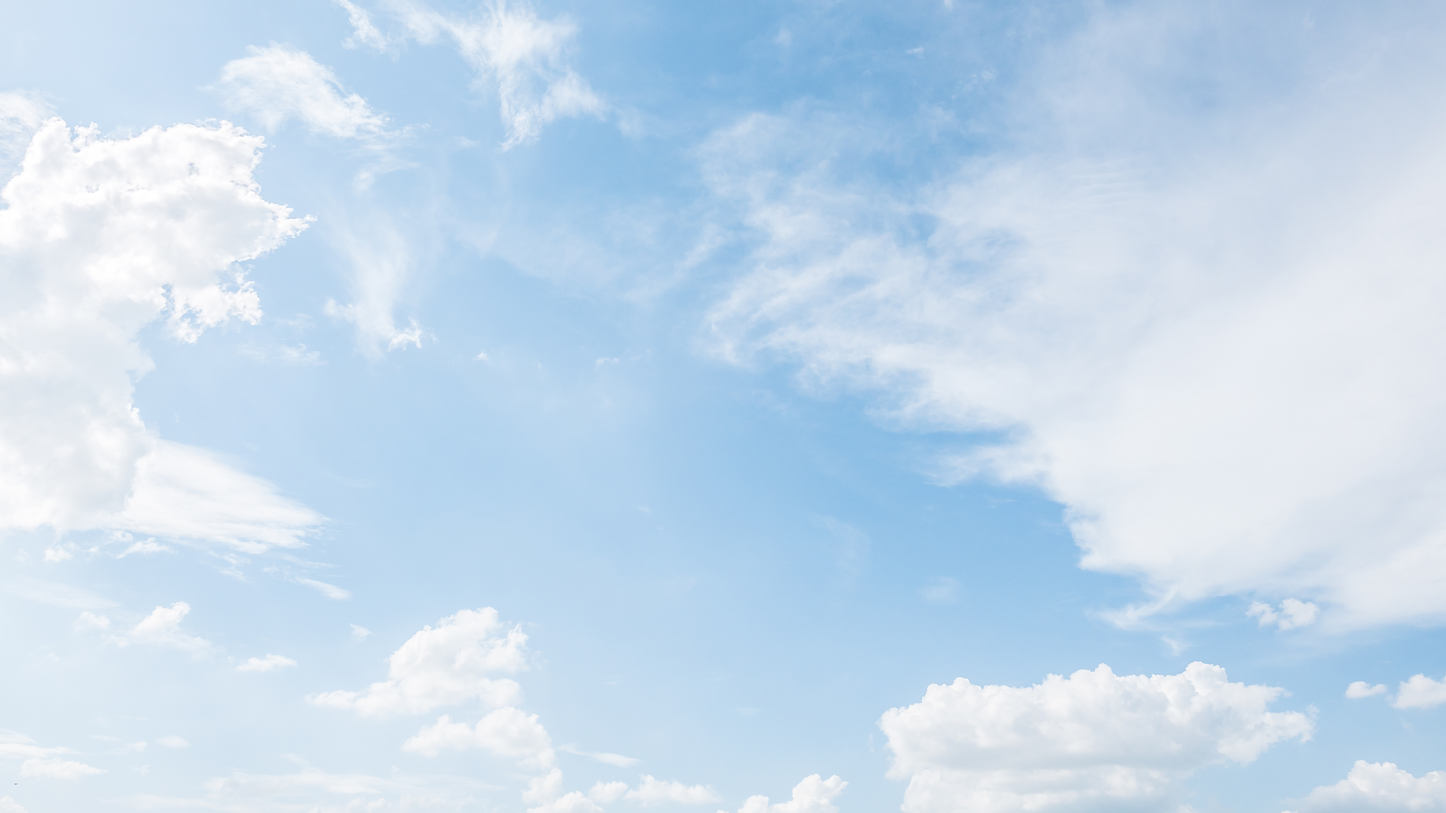
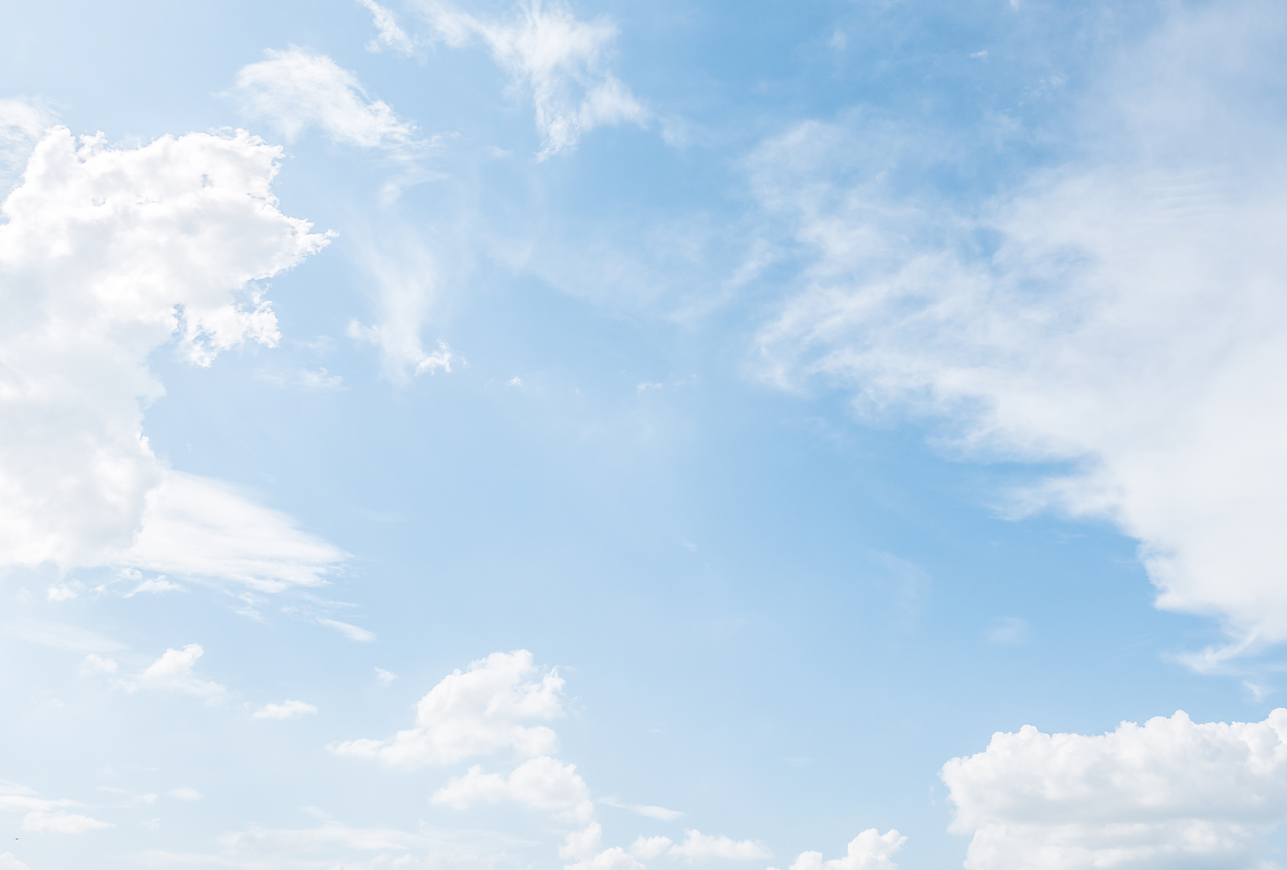
resize bg images

diff --git a/src/styles.css b/src/styles.css
@@ -24,7 +24,7 @@ body {
     letter-spacing: 0.02rem;
     font-family: var(--system-font);
     color: var(--primary-txt-color);
-    transition: background 0.5s ease-in;
+    transition: background 0.5s ease-in-out;
 }
 
 .main-view {
